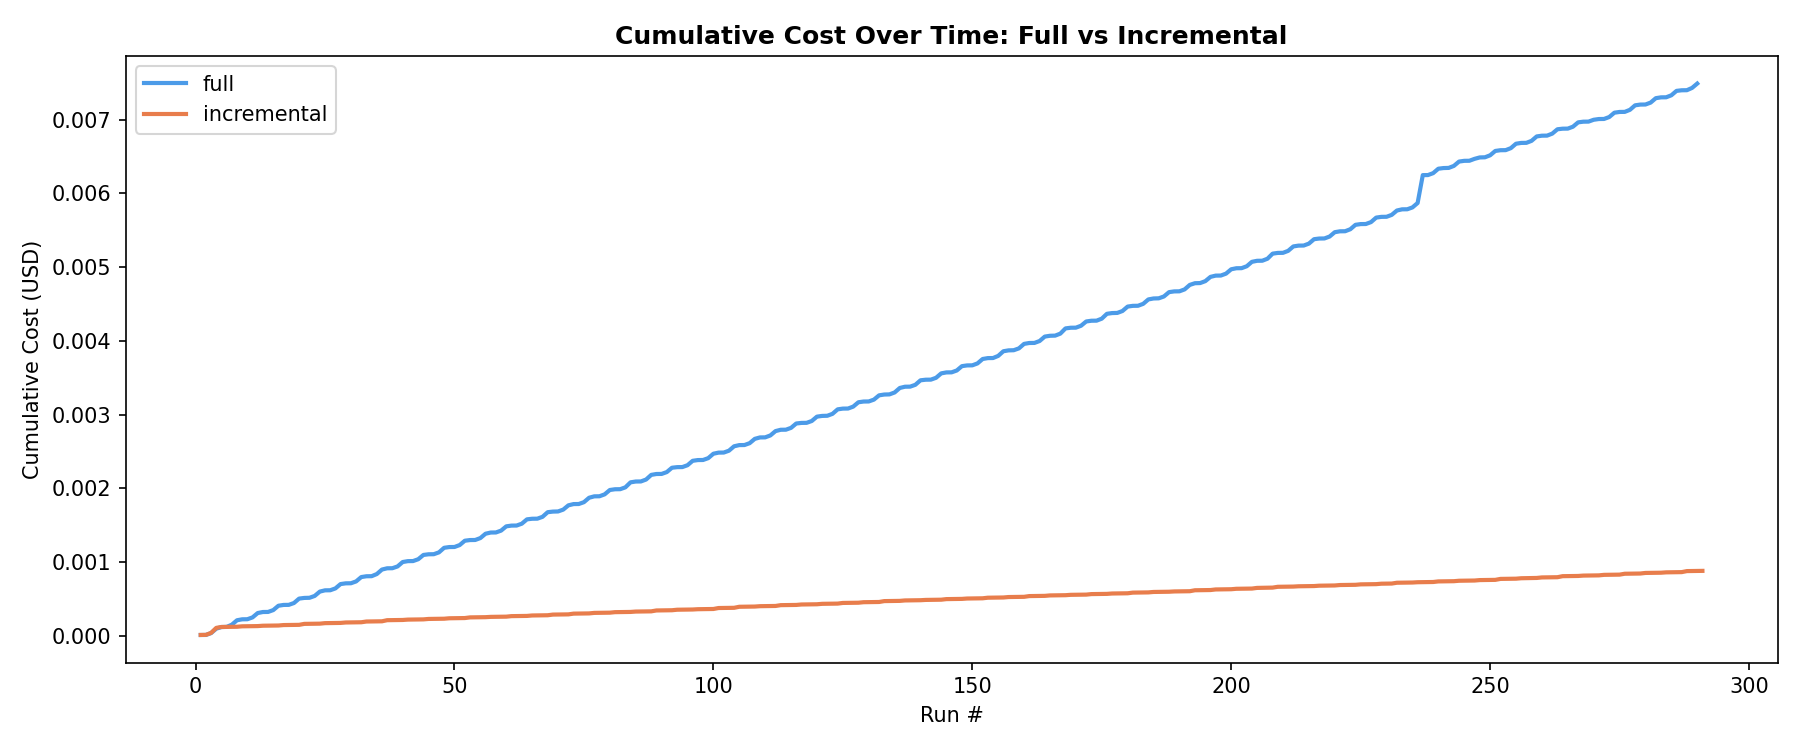
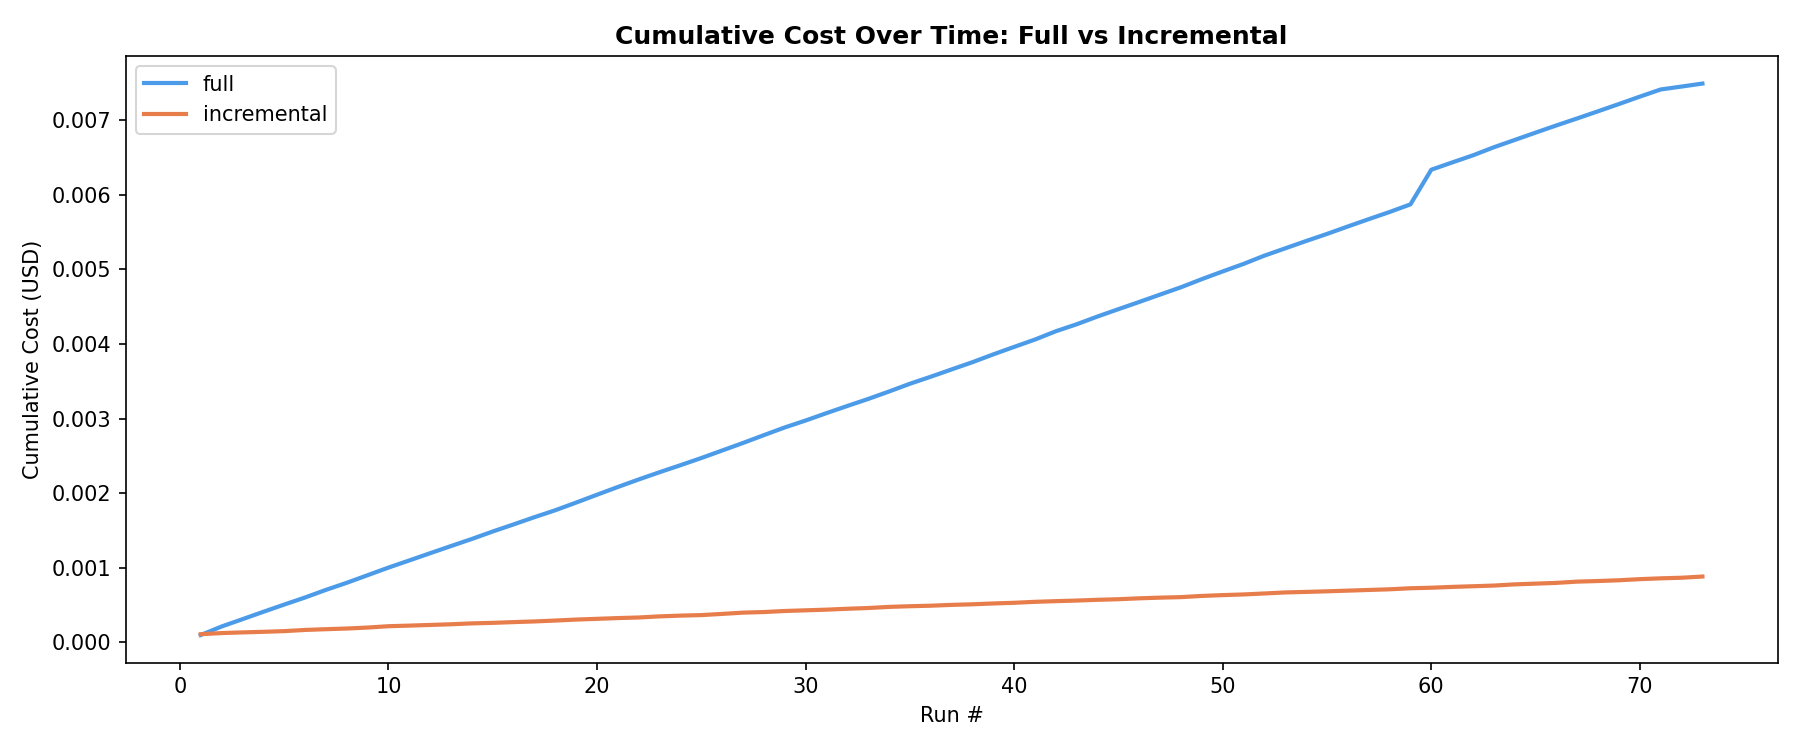
reworked analysis script, extra analysis in the readme

diff --git a/analysis/analysis.py b/analysis/analysis.py
@@ -48,7 +48,15 @@ def make_con():
 # ── Load metrics ──────────────────────────────────────────────────────────────
 print("Loading metrics...")
 con = make_con()
-df = con.execute(f"select * from read_csv('{METRICS_PATH}')").df()
+df = con.execute(
+    f"""
+select
+    *,
+    row_number() over 
+        (partition by job_type, "table" order by run_timestamp) as run_id
+from read_csv('{METRICS_PATH}')
+"""
+).df()
 con.close()
 print(f"  {len(df)} rows loaded")
 
@@ -106,10 +114,10 @@ cost = con.execute("""
     with per_run as (
         select
             job_type,
-            date_trunc('minute', run_timestamp::timestamptz) as run_minute,
+            run_id,
             sum(estimated_cost_usd) as run_cost_usd
         from df
-        group by job_type, run_minute
+        group by job_type, run_id
     )
     select
         job_type,
@@ -125,6 +133,32 @@ cost = con.execute("""
 con.close()
 print(cost.to_string(index=False))
 cost.to_markdown(os.path.join(OUTPUT_DIR, "cost.md"), index=False)
+
+con = duckdb.connect()
+cost_per_run = con.execute("""
+    with with_run_id as (
+        select
+            *
+        from df
+    ),
+    per_run as (
+        select
+            job_type,
+            run_id,
+            sum(estimated_cost_usd) as run_cost_usd
+        from with_run_id
+        group by job_type, run_id
+    )
+    select
+        job_type,
+        run_id,
+        run_cost_usd,
+        sum(run_cost_usd) over (partition by job_type order by run_id) as cumulative_cost_usd
+    from per_run
+    order by job_type, run_id
+""").df()
+con.close()
+cost_per_run.to_csv(os.path.join(OUTPUT_DIR, "cost_per_run.csv"), index=False)
 
 # ── Plots ─────────────────────────────────────────────────────────────────────
 
@@ -152,17 +186,10 @@ plt.close()
 # Cumulative cost
 fig, ax = plt.subplots(figsize=(12, 5))
 for job_type, color in PALETTE.items():
-    per_run = (
-        df[df["job_type"] == job_type]
-        .groupby("run_timestamp")["estimated_cost_usd"]
-        .sum()
-        .reset_index()
-        .sort_values("run_timestamp")
-    )
-    per_run["cumulative_cost"] = per_run["estimated_cost_usd"].cumsum()
+    subset = cost_per_run[cost_per_run["job_type"] == job_type]
     ax.plot(
-        range(1, len(per_run) + 1),
-        per_run["cumulative_cost"],
+        subset["run_id"],
+        subset["cumulative_cost_usd"],
         label=job_type,
         color=color,
         linewidth=2,

diff --git a/scripts/s3_tree.py b/scripts/s3_tree.py
@@ -1,0 +1,52 @@
+import boto3
+
+S3_BUCKET = "sh26-aws-ingestion-tf"
+S3_PREFIX = "1-batch-ingestion-full-vs-incremental/"
+
+s3 = boto3.client("s3")
+paginator = s3.get_paginator("list_objects_v2")
+
+keys = [
+    obj["Key"]
+    for page in paginator.paginate(Bucket=S3_BUCKET, Prefix=S3_PREFIX)
+    for obj in page.get("Contents", [])
+]
+
+
+# Build a nested dict tree from the list of keys
+def build_tree(keys, prefix):
+    tree = {}
+    for key in keys:
+        relative = key[len(prefix) :]
+        parts = relative.split("/")
+        node = tree
+        for part in parts:
+            if part:
+                node = node.setdefault(part, {})
+    return tree
+
+
+def is_partitioned(node):
+    """True if all children look like hive partition keys (e.g. run_ts=...)."""
+    return node and all("=" in child for child in node)
+
+
+def print_tree(node, name="", indent="", last=True):
+    connector = "└── " if last else "├── "
+    # If this node's children are all partition dirs, summarise instead of expanding
+    n_parts = len(node)
+    if is_partitioned(node):
+        print(f"{indent}{connector}{name}/ ({n_parts} items)")
+        return
+    print(f"{indent}{connector}{name}" if name else name)
+    indent += "    " if last else "│   "
+    children = list(node.items())
+    for i, (child_name, child_node) in enumerate(children):
+        print_tree(child_node, child_name, indent, last=(i == len(children) - 1))
+
+
+tree = build_tree(keys, S3_PREFIX)
+print(S3_PREFIX)
+children = list(tree.items())
+for i, (name, node) in enumerate(children):
+    print_tree(node, name, indent="", last=(i == len(children) - 1))

diff --git a/README.md b/README.md
@@ -35,34 +35,95 @@ answer
 # Results
 
 ## 1: Batch Ingestion (Full vs Incremental)
-**Goal:** Build two ingestion pipelines using AWS Glue (batch and incremental) to ingest data from a local OLTP Postgres database into partitioned parquet files in S3. Measure how each pipeline handles three main dataset changes (inserts, updates, and deletes) with respect to cost, performance, and correctness. Understand the detailed tradeoffs between these two approaches for keeping a data lake in sync with a database.
+**Goals:** Build two batch ingestion pipelines (full and incremental) to ingest data from an OLTP database to an S3 data lake every 5 minutes. Evaluate the cost, performance, and correctness of each pipeline. Understand the detailed tradeoffs between these two approaches for keeping a data lake in sync with a database.
 
-- **Source:** Local OLTP Postgres database
-- **Ingestion:** Glue
-- **Transformation:** Glue
-- **Target:** S3 (parquet, partitioned)
+- **Source:** RDS Postgres database.
+    - Every 5 minutes: inserts, updates, soft deletes, and hard deletes.
+    - Each table gets 100 changes in total.
+        - Customers: 100 updates.
+        - Products: 70 updates, 30 soft deletes.
+        - Orders: 50 updates, 50 new records.
+        - Order Items: 70 new records, 30 hard deletes.
+- **Ingestion & Transformation:** Glue.
+- **Target:** S3.
+    &rarr; Landing Zone (raw, csv).
+    &rarr; Processed Zone (partitioned, parquet).
 
 ![](./images/1-batch-ingestion-full-vs-incremental.drawio.png)
 
-### Analysis
-There are three main factors that I kept in mind while performing the analysis.
+**Seeding:** The source tables were seeded with a python script that creates a connection to the RDS database, creates the tables if they do not exist already, truncates them, and then copies synthetically generated data into them. 
 
-- **Cost:** What is the cost model and how do costs look like they would scale for each pipeline given bigger and bigger datasets? And in general, so we can generalize cost outside of just AWS, how much data needs to be scanned with each approach?
+**Orchestration:** Two glue triggers were created. One to run the script for simulating changes on the RDS database every 5 minutes. And if that script succeeds, the other trigger runs both ingestion pipelines.
+
+**Querying:** I used DuckDB as a sort of swiss-army-knife of querying. Quick sanity checks, ad-hoc exploration, and building out the analysis script.
+
+**Data Lake Structure:**
+
+```
+1-batch-ingestion-full-vs-incremental/
+├── glue
+│   └── scripts
+│       ├── full_load.py
+│       ├── incremental_load.py
+│       ├── metrics.py
+│       └── simulate_changes.py
+├── incremental_checkpoint.json
+├── metrics
+│   └── metrics.csv
+├── processing
+│   ├── full
+│   │   ├── customers
+│   │   │   └── data.parquet
+│   │   ├── order_items
+│   │   │   └── data.parquet
+│   │   ├── orders
+│   │   │   └── data.parquet
+│   │   └── products
+│   │       └── data.parquet
+│   └── incremental
+│       ├── customers/ (73 items)
+│       ├── order_items/ (73 items)
+│       ├── orders/ (73 items)
+│       └── products/ (73 items)
+└── raw
+    ├── full
+    │   ├── customers.csv
+    │   ├── order_items.csv
+    │   ├── orders.csv
+    │   └── products.csv
+    └── incremental
+        ├── customers/ (73 items)
+        ├── order_items/ (73 items)
+        ├── orders/ (73 items)
+        └── products/ (73 items)
+```
+
+### Analysis
+In all, each pipeline was run 73 times. There are three main factors that I kept in mind while performing the analysis.
+
+- **Cost:** What is the cost model and how do costs look like they would scale for each pipeline given bigger and bigger datasets?
 - **Performance:** Runtime, memory usage, and scalability?
 - **Correctness:** Does the data in S3 reflect the source?
 
 #### Cost
+To estimate the cost of each run, I calculated
+`cost_usd = (runtime_seconds / 3600) * GLUE_DPU * GLUE_DPU_PRICE_PER_HOUR` (where `GLUE_DPU = 0.0625` (because I configured my Glue jobs to use only 1/16th of a DPU) and `GLUE_DPU_PRICE_PER_HOUR = 0.44`). 
 
 <p align="center">  
-    <img src="./analysis/output/cost.png" width=80%>
+    <img src="./analysis/output/cost.png" width=100%>
+    Figure 1. Cumulative Cost Over Time: Full vs Incremental
 </p>
+
+Figure 1 shows the cumulative cost over time for each pipeline. As you can see, there is quite a big gap between the two. This gap is better understood upon inspection of Table 1, where it becomes clear that the full pipeline costs an order of magnitude more. If you were to run these pipelines hourly for a whole month, you should expect to spend about **\$0.074** and **$0.009** on full and incremental, respectively.
 
 <div align="center">
 
 | job_type    |   total_runs |   total_cost_usd |   avg_cost_per_run_usd |   projected_daily_usd |   projected_monthly_usd |
 |:------------|-------------:|-----------------:|-----------------------:|----------------------:|------------------------:|
-| full        |           83 |         0.007491 |                9e-05   |                0.0022 |                  0.065  |
-| incremental |           75 |         0.000881 |                1.2e-05 |                0.0003 |                  1.0085 |
+| full        |           73 |         0.007491 |               0.000103 |                0.0025 |                  0.0739 |
+| incremental |           73 |         0.000881 |               1.2e-05  |                0.0003 |                  0.0087 |
+
+Table 1. Cost Data: Full vs Incremental
 </div>
 
 #### Performance
@@ -81,7 +142,7 @@ For the projects, I decided to create a single synthetic dataset with a simple d
 
 **... (add more explanation to how the data was generated and assumptions) ...**
 <p align="center">  
-    <img src="./images/data-model_1-batch-ingestion-full-vs-incremental.png" width=80%>
+    <img src="./images/data-model_1-batch-ingestion-full-vs-incremental.png" width=100%>
 </p>
 
 **... (preview of the data here) ...**
@@ -91,14 +152,14 @@ Because many of the projects involve some sort of benchmarking, the data is also
 **... (explanation of the sizes here) ...**
 
 ## Infrastructure as Code (IaC)
-One side goal of mine when embarking on these projects was to get some extra practice using Terraform to write my AWS infrastructure as code. I see this skillset as becoming pivotally important for data engineers to master (even in single-cloud environments!) as the discipline continues to converge more and more with DevOps (not to mention its pretty satisfying to be able to spin everything up so conveniently).
+One side goal of mine when embarking on these projects was to get some extra practice using Terraform to write my AWS infrastructure as code. I see this skillset as becoming pivotally important for data engineers to master (even in single-cloud environments!) as the DE discipline continues to converge more and more with DevOps (not to mention its pretty satisfying to be able to spin everything up so conveniently).
 
-The way I practiced this was as simple as (1) building out the project normally, via AWS console + CLI, and then (2) replicating my exact environment/results with Terraform.
+The way I practiced this was as simple as (1) building out the project normally, via AWS console + CLI, and then (2) replicating my exact environment/results with Terraform. For simulating a real production environment, I placed my terraform backend in the root bucket for this repo, `sh26-aws-ingestion-tf`.
 
 ## AI
 There are two main use-cases for AI (I'm using "AI" here as a shorthand for things like large language models, agents, and so on) in the realm of software: learning and coding. I believe that it is better for my long-term development as an engineer, systems thinker, and problem solver to avoid (as much as possible) just using AI to generate all of the code. Not only have studies shown that [AI coding assistance can significantly decrease mastery at the benefit of slightly faster speed](https://www.anthropic.com/research/AI-assistance-coding-skills), but it also takes away a lot of the joy and craft of figuring things out for yourself.
 
-That being said, I will still occasionally code generate on personal projects meant for learning. But usually only for boring / routine tasks I can do in my sleep. My main use of AI is still learning things quicker, for which I find it indispensable. [AI was also helpful to come up with some of the project ideas](https://chatgpt.com/share/69c590de-e868-8328-b018-b9dafb5f5912) I executed in this repository, as well as ideas on questions to ask myself, experiments to perform, overall structure, and so on.
+That being said, I will still occasionally code generate on personal projects meant for learning. But usually only for boring / routine tasks I can do in my sleep. Or for things such as plotting with matplotlib, which I do not need to learn the intricacies of and am happy delegating to AI. My main use of AI is still learning things quicker, for which I find it indispensable. [AI was also helpful to come up with some of the project ideas](https://chatgpt.com/share/69c590de-e868-8328-b018-b9dafb5f5912) I executed in this repository, as well as ideas on questions to ask myself, experiments to perform, overall structure, and so on.
 
 ## Diagrams
 The architecture diagrams were created with draw.io and the data model diagrams were created with dbdiagram.io.

diff --git a/analysis/output/cost.md b/analysis/output/cost.md
@@ -1,4 +1,4 @@
 | job_type    |   total_runs |   total_cost_usd |   avg_cost_per_run_usd |   projected_daily_usd |   projected_monthly_usd |
 |:------------|-------------:|-----------------:|-----------------------:|----------------------:|------------------------:|
-| full        |           83 |         0.007491 |                9e-05   |                0.0022 |                  0.065  |
-| incremental |           75 |         0.000881 |                1.2e-05 |                0.0003 |                  1.0085 |
+| full        |           73 |         0.007491 |               0.000103 |                0.0025 |                  0.0739 |
+| incremental |           73 |         0.000881 |               1.2e-05  |                0.0003 |                  0.0087 |